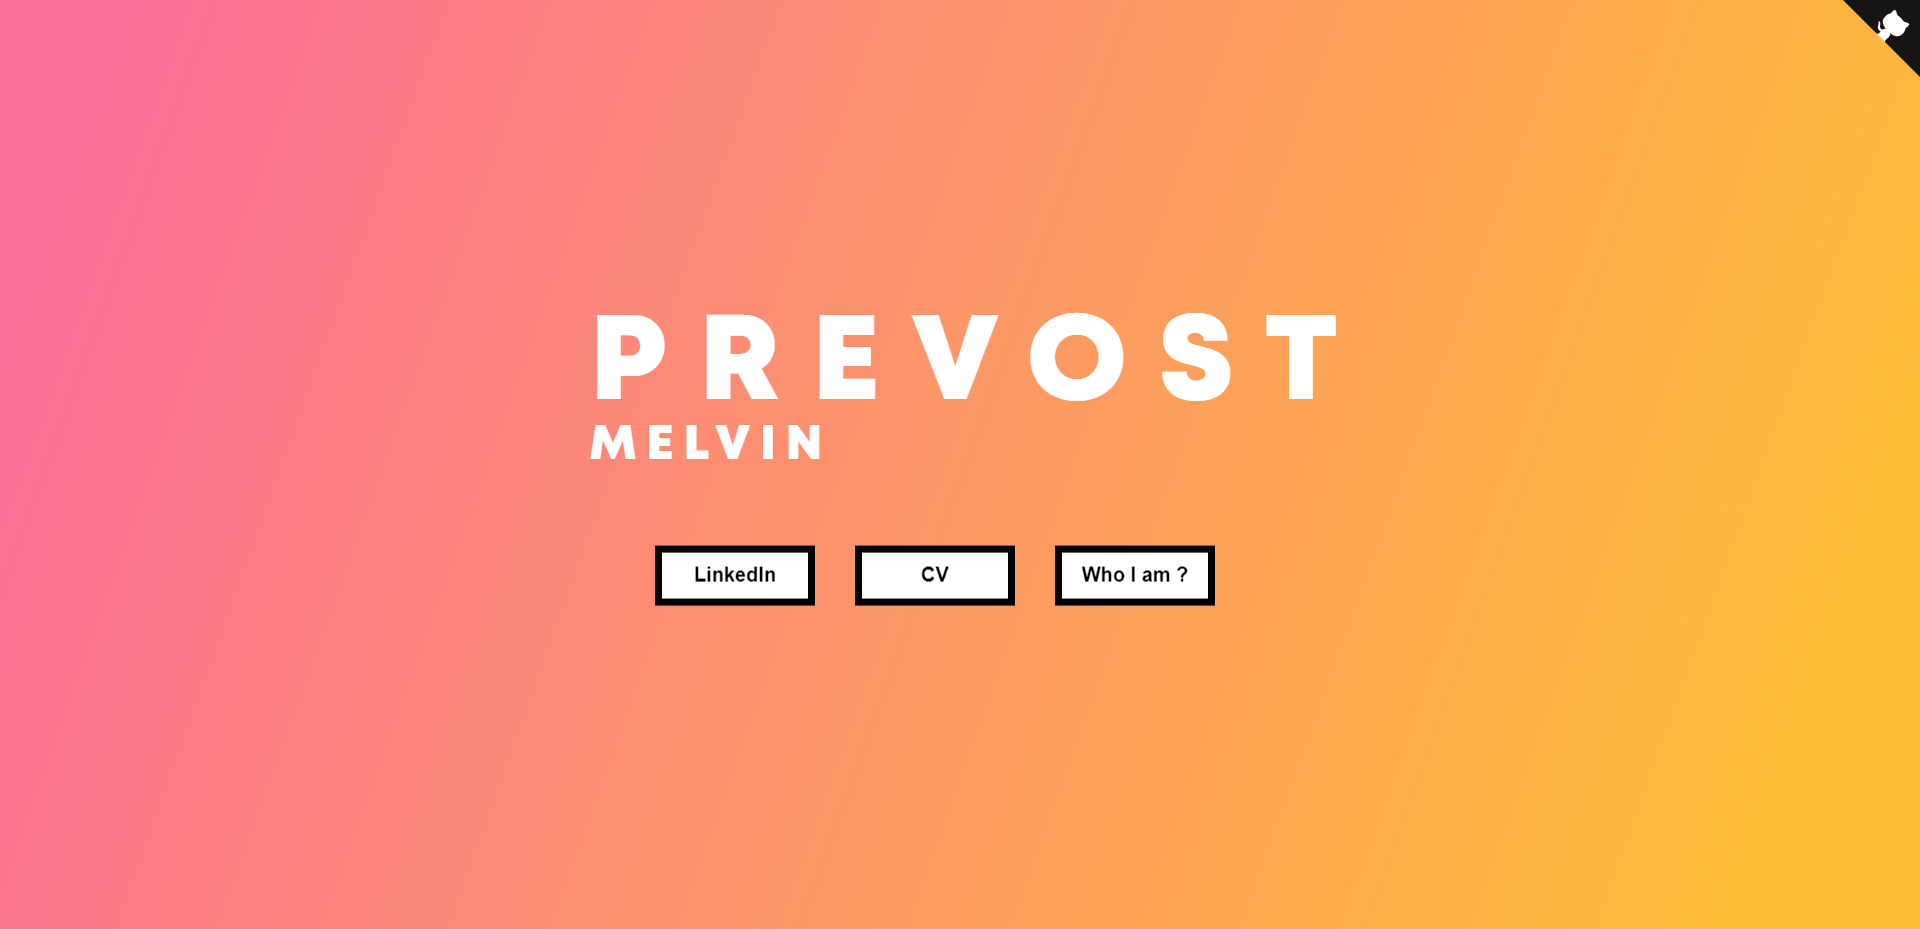
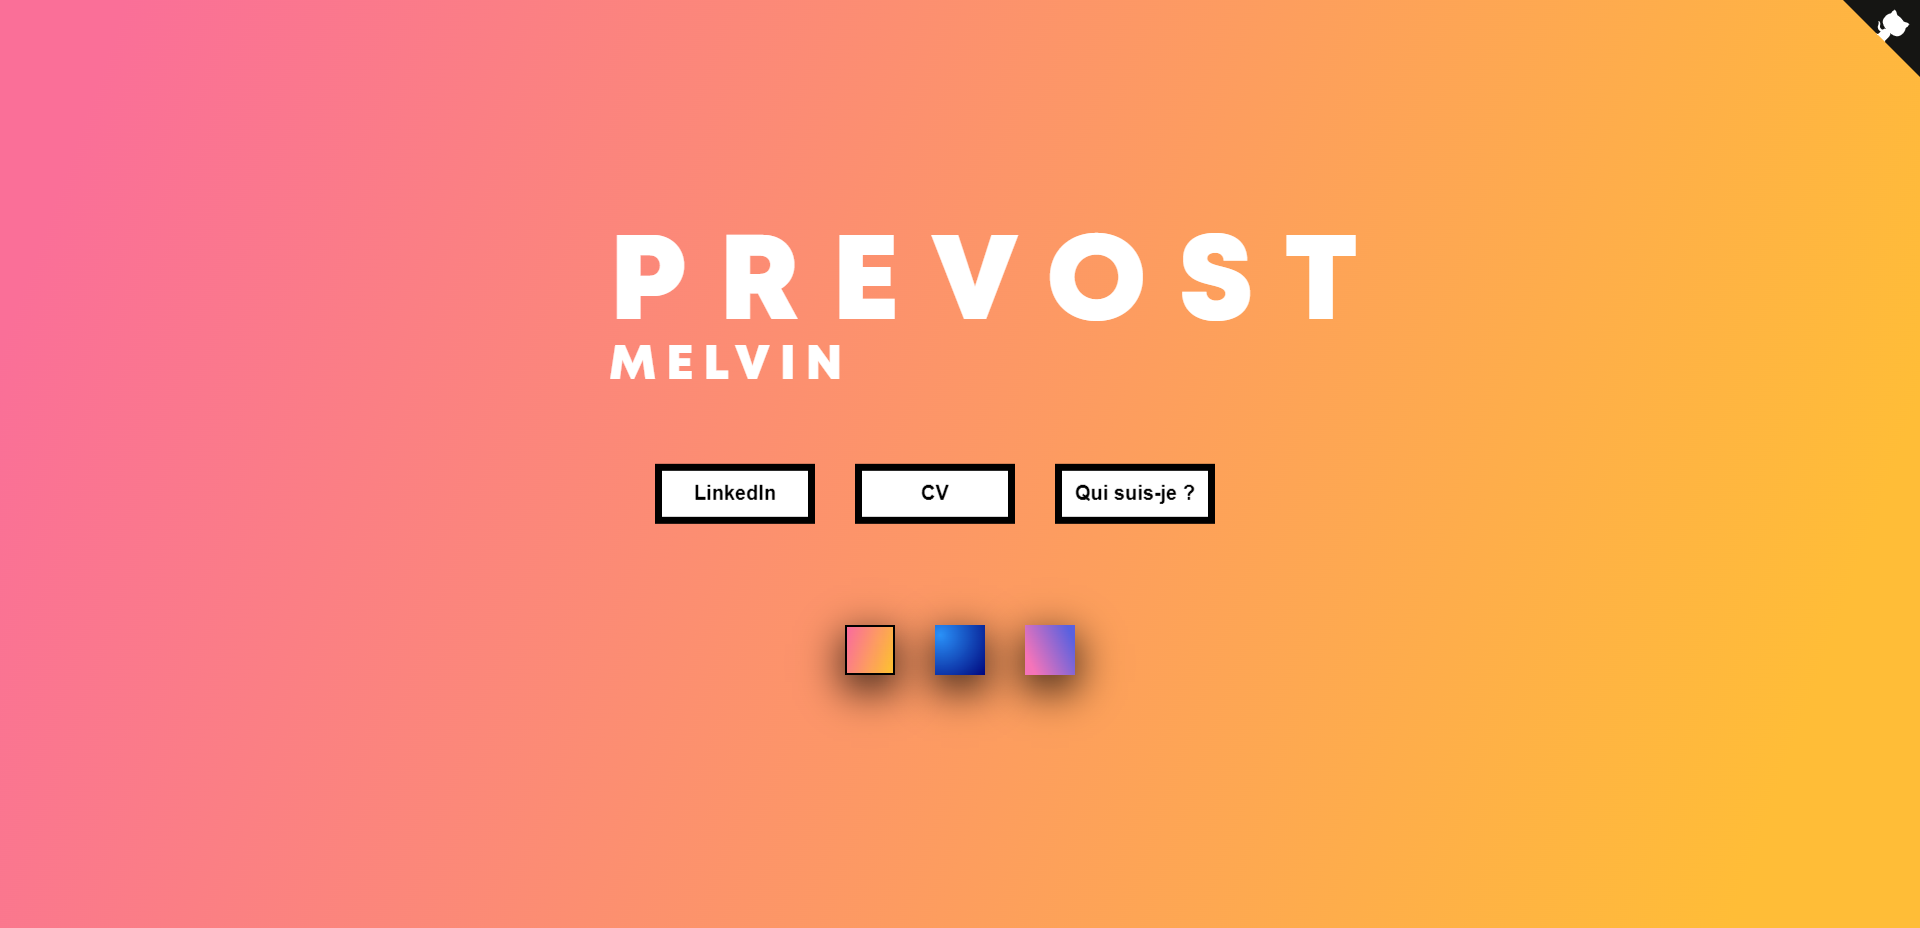
Add a function
to change the background of the portfolio

Changed region(s): [[0.2812, 0.25, 0.7188, 0.7812]]

diff --git a/CSS/index.css b/CSS/index.css
@@ -15,6 +15,7 @@
 }
 
 body {
+    /* Orange gradient background */
     background-image: linear-gradient(109.8deg, rgba(250, 111, 152, 1) 5.6%, rgba(255, 189, 55, 1) 91.5%);
     background-size: cover;
     height: 100vh;
@@ -43,7 +44,7 @@ body {
     letter-spacing: 32px;
     line-height: 60px;
     font-family: 'MontHEAVY';
-    
+
 }
 
 .container h1 span {
@@ -61,43 +62,44 @@ body {
     align-items: center;
     margin-top: 80px;
 
-    animation: flyingAnimation 1s infinite alternate ease-in-out; /* Animation de flottement */
+    animation: flyingAnimation 1s infinite alternate ease-in-out;
+    /* Animation de flottement */
 }
 
 .noselect {
-  -webkit-touch-callout: none;
+    -webkit-touch-callout: none;
     -webkit-user-select: none;
-     -khtml-user-select: none;
-       -moz-user-select: none;
-        -ms-user-select: none;
-            user-select: none;
-		-webkit-tap-highlight-color: transparent;
+    -khtml-user-select: none;
+    -moz-user-select: none;
+    -ms-user-select: none;
+    user-select: none;
+    -webkit-tap-highlight-color: transparent;
 }
 
 .Button button {
-	width: 150px;
-	height: 50px;
-	cursor: pointer;
-	font-size: 20px;
-	font-weight: bold;
-	color: black;
-	background: white;
-	border: 2px solid black;
-	box-shadow: 5px 5px 0 black,
-		-5px -5px 0 black,
-		-5px 5px 0 black,
-		5px -5px 0 black;
-	transition: 500ms ease-in-out;
+    width: 150px;
+    height: 50px;
+    cursor: pointer;
+    font-size: 20px;
+    font-weight: bold;
+    color: black;
+    background: white;
+    border: 2px solid black;
+    box-shadow: 5px 5px 0 black,
+        -5px -5px 0 black,
+        -5px 5px 0 black,
+        5px -5px 0 black;
+    transition: 500ms ease-in-out;
 
     margin-right: 50px;
 }
 
 .Button button:hover {
-	box-shadow: 20px 5px 0 black, -20px -5px 0 black;
+    box-shadow: 20px 5px 0 black, -20px -5px 0 black;
 }
 
 .Button button:focus {
-	outline: none;
+    outline: none;
 }
 
 @media (max-width: 1170px) {
@@ -112,7 +114,7 @@ body {
         font-size: 18px;
     }
 
-    .Button button{
+    .Button button {
         width: 110px;
         height: 40px;
         font-size: 14px;
@@ -134,7 +136,7 @@ body {
         font-size: 18px;
     }
 
-    .Button button{
+    .Button button {
         width: 80px;
         height: 20px;
         font-size: 12px;
@@ -144,8 +146,8 @@ body {
     }
 }
 
-@media (min-width: 1171px){
-    .container h1{
+@media (min-width: 1171px) {
+    .container h1 {
         transition: 500ms ease-out;
     }
 }
@@ -154,9 +156,11 @@ body {
     0% {
         transform: translate(0, 0);
     }
+
     50% {
         transform: translate(0, -10px);
     }
+
     100% {
         transform: translate(0, 0);
     }
@@ -197,10 +201,50 @@ body {
 
 /*Modal "Qui suis-je" */
 
-#ModalQuiSuisJe p{
+#ModalQuiSuisJe p {
     font-family: 'LouisGeorgeCafeLight';
 }
 
 #ModalQuiSuisJe h2 {
     font-family: 'MontHEAVY';
+}
+
+/* Wallpaper */
+
+.container2 {
+    display: flex;
+}
+
+.square {
+    width: 50px;
+    height: 50px;
+    margin: 20px;
+    margin-top: 100px;
+    cursor: pointer;
+    box-shadow: 0px 13px 40px 3px rgba(0,0,0,0.75);
+    transition: transform .2s;
+}
+
+.square:hover {
+    transform: scale(1.3);
+    transition: 0.5s;
+}
+
+#square1 {
+    /* Orange gradient background */
+    background-image: linear-gradient(109.8deg, rgba(250, 111, 152, 1) 5.6%, rgba(255, 189, 55, 1) 91.5%);
+}
+
+#square2 {
+    /* Blue gradient background */
+    background-image: radial-gradient(circle farthest-corner at 10% 20%, rgba(37, 145, 251, 0.98) 0.1%, rgba(0, 7, 128, 1) 99.8%);
+}
+
+#square3 {
+    /* Pink and Blue gradient background */
+    background-image: linear-gradient(64.5deg, rgba(245, 116, 185, 1) 14.7%, rgba(89, 97, 223, 1) 88.7%);
+}
+
+.selected {
+    border: 2px solid black;
 }

diff --git a/HTML/index.html b/HTML/index.html
@@ -17,6 +17,15 @@
 </head>
 
 <body>
+
+    <script>
+        const randomNumber = Math.floor(Math.random() * 3) + 1;
+
+        document.addEventListener('DOMContentLoaded', function () {
+            changeBackground(randomNumber);
+        });
+    </script>
+
     <div class="container">
         <h1 class="object" data-value="3">PREVOST<br><span>MELVIN</span></h1>
         <!--<img src="" class="object" data-value="6" alt="">-->
@@ -29,13 +38,19 @@
             <button onclick="afficherPDF()" class="CV noselect">CV</button>
 
             <script>
-                function afficherPDF(){
+                function afficherPDF() {
                     window.open('../ressource/cv_melvin.pdf', '_blank');
                 }
             </script>
             <!-- </a> -->
 
             <button uk-toggle="target: #ModalQuiSuisJe" class="QuiSuisJe noselect">Qui suis-je ?</button>
+        </div>
+
+        <div class="container2">
+            <div class="square selected" id="square1" onclick="changeBackground(1)"></div>
+            <div class="square" id="square2" onclick="changeBackground(2)"></div>
+            <div class="square" id="square3" onclick="changeBackground(3)"></div>
         </div>
     </div>
 

diff --git a/JS/index.js b/JS/index.js
@@ -1,0 +1,15 @@
+function changeBackground(squareId) {
+    const squares = document.querySelectorAll('.square');
+    const selectedSquare = document.getElementById(`square${squareId}`);
+  
+    squares.forEach(square => {
+        square.classList.remove('selected');
+    });
+  
+    selectedSquare.classList.add('selected');
+  
+    const computedStyle = window.getComputedStyle(selectedSquare);
+    const backgroundImage = computedStyle.getPropertyValue('background-image');
+  
+    document.body.style.backgroundImage = backgroundImage;
+}
